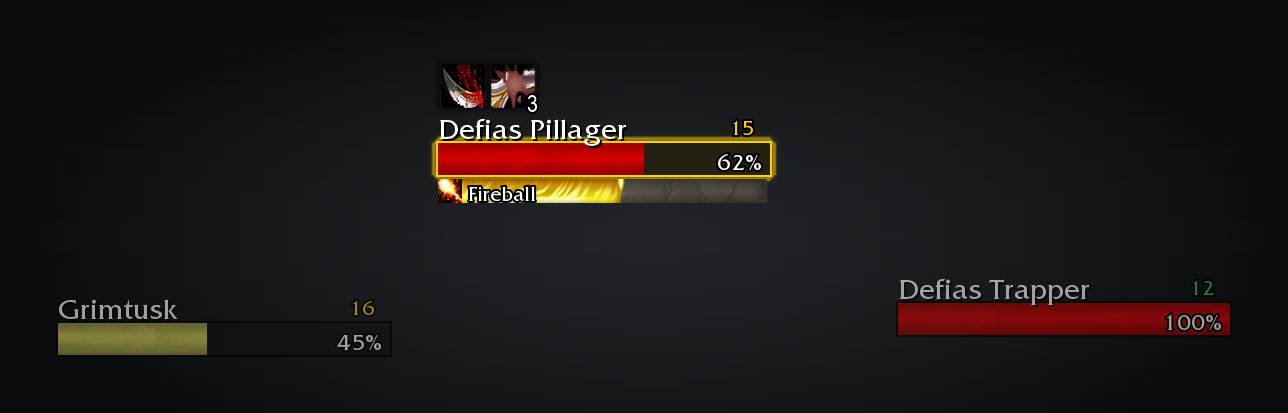
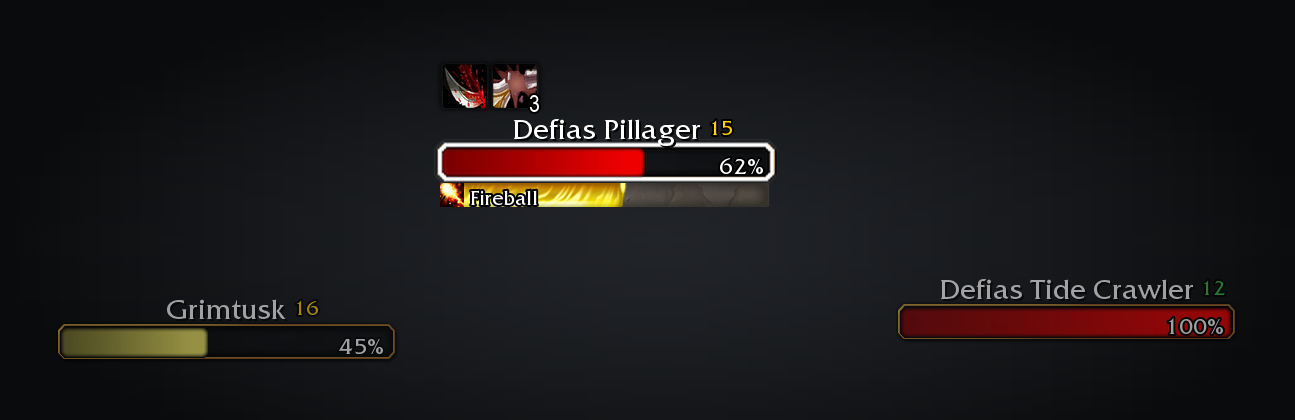
fix: full nameplate names in retail's bar frame; never test a secret value (#41)
* fix(nameplates): full names above retail's own bar frame

Names were pinned between the bar's left end and the level box, so any
longer name ("Encrusted Tide Crawler") was cut short. The name now has a
single anchor, centred above the bar, and the level follows it, so it
is never truncated.

The flat trough and 1-unit black edge gave way to retail's own art, laid
out as its default style does: the cooldown-manager fill inside its
bronze-rimmed trough, with the Nameplates-Selected outline round the
target (white) or focus (gold). The Classic style switches that outline
off, so the hook shows it from UnitIsUnit instead of Blizzard's
IsTarget, keeping to engine calls only.

Claude-Session: https://claude.ai/code/session_016cB4EsmY8J7vcvboaHNcoS

* fix: never test a secret value in nameplates, camps, fishing or tooltips

A read-only audit against the client's secret-value markers found these
paths that could still raise a Lua error:

- Nameplates: UnitIsUnit answers with a secret boolean on restricted maps
  (dungeons, raids), and Dim/Border tested it. One Highlight now does
  both, and when the answer is secret hands it to the engine's
  SetAlphaFromBoolean, so the target keeps its outline and the others
  still fade there; only the focus goes unmarked.
- Camp aura tooltip: the aura id (always-secret spells) and the
  UnitIsUnit check are tested only once readable.
- Campfire and fishing casts: registered for the player alone with
[…]

Changed region(s): [[0.3106, 0.1453, 0.6211, 0.4939], [0.6832, 0.6683, 0.9627, 0.8136], [0.0311, 0.7264, 0.3106, 0.8717]]

diff --git a/tools/screenshots.py b/tools/screenshots.py
@@ -433,8 +433,7 @@ def editmode(ui):
 
 # Nameplates.lua at the Medium size: a 190-wide plate less Blizzard's 12 inset each side, health 16 over a 2 gap
 # and a 12 cast bar, name and level 2 above the bar, a 5-unit glow on the target, the others at 0.6 alpha.
-PLATE_W, PLATE_HEALTH, PLATE_CAST, PLATE_GAP, PLATE_GLOW, PLATE_DIMMED = 166, 16, 12, 2, 5, 0.6
-TROUGH = (0.07, 0.07, 0.08, 0.92)
+PLATE_W, PLATE_HEALTH, PLATE_CAST, PLATE_GAP, PLATE_DIMMED = 166, 16, 12, 2, 0.6
 HOSTILE, ROGUE = (1.0, 0.0, 0.0), (1.0, 0.96, 0.41)
 FAIR, EASY = (1.0, 0.82, 0.0), (0.25, 0.75, 0.25)
 FIREBALL, REND, SUNDER = 135812, 132155, 132363
@@ -451,7 +450,7 @@ PLATES = [
         ("Fireball", FIREBALL, 0.55),
         [(REND, None, 0.4), (SUNDER, 3, 0.8)],
     ),
-    ("Defias Trapper", 12, EASY, HOSTILE, 1.0, False, None, []),
+    ("Defias Tide Crawler", 12, EASY, HOSTILE, 1.0, False, None, []),
     ("Grimtusk", 16, FAIR, ROGUE, 0.45, False, None, []),
 ]
 PLATE_POSITIONS = [(40, 60), (270, 140), (-150, 150)]
@@ -471,19 +470,12 @@ def nameplate(ui, name, level, level_colour, colour, health, target, cast, debuf
     x, w = 37, PLATE_W
     cast_y = 110 - PLATE_CAST
     y = cast_y - PLATE_GAP - PLATE_HEALTH
+    # Retail's bar art as its default style lays it out: the trough 2 left, 3 above, 6 right and 6 below the bar,
+    # and the target outline 1 outside the trough's top left and 3 inside its bottom right.
+    c.draw(ui.atlas("UI-HUD-CoolDownManager-Bar-BG"), x - 2, y - 3, w + 8, PLATE_HEALTH + 9)
+    c.draw(ui.atlas("UI-HUD-CoolDownManager-Bar"), x, y, w * health, PLATE_HEALTH, color=(*colour, 1))
     if target:
-        glow = PLATE_GLOW
-        c.draw(
-            ui.atlas("UI-HUD-Nameplates-Selected"),
-            x - glow,
-            y - glow,
-            w + glow * 2,
-            PLATE_HEALTH + glow * 2,
-            color=(*NORMAL, 0.55),
-        )
-    c.fill(x - 1, y - 1, w + 2, PLATE_HEALTH + 2, (*NORMAL, 1) if target else (0, 0, 0, 1))
-    c.fill(x, y, w, PLATE_HEALTH, TROUGH)
-    c.draw(ui.atlas("widgetstatusbar-fill-white"), x, y, w * health, PLATE_HEALTH, color=(*colour, 1))
+        c.draw(ui.atlas("UI-HUD-Nameplates-Selected"), x - 3, y - 4, w + 6, PLATE_HEALTH + 7)
     c.text(
         x,
         y,
@@ -494,10 +486,14 @@ def nameplate(ui, name, level, level_colour, colour, health, target, cast, debuf
         width=w - 4,
     )
 
-    # Blizzard's 28-wide level frame without its box, and the name up to it.
-    name_y = y - 2 - 14
+    # The full name centred above the bar, and Blizzard's 28-wide level frame, without its box, 4 into its end.
+    name_y = y - 4 - 14
+    font = Font(FRIZQT, 14, (1, 1, 1), (1, -1))
+    name_w = c.text_width(name, font)
+    name_x = x + (w - name_w) / 2
+    c.text(name_x, name_y, name, font)
     c.text(
-        x + w - 28,
+        name_x + name_w - 4,
         name_y,
         str(level),
         Font(FRIZQT, 10, level_colour, None, True),
@@ -505,7 +501,6 @@ def nameplate(ui, name, level, level_colour, colour, health, target, cast, debuf
         justify="CENTER",
         width=28,
     )
-    c.text(x, name_y, name, Font(FRIZQT, 14, (1, 1, 1), (1, -1)), width=w - 32)
 
     # Blizzard's own debuff tiles, untouched: 25 square, cooldown-manager mask and frame, stacks bottom right.
     for i, (fdid, count, remaining) in enumerate(debuffs):

diff --git a/README.md b/README.md
@@ -43,7 +43,7 @@ When another addon already does one of these jobs, that feature is greyed out an
 </p>
 
 <p align="center">
-<img src="https://raw.githubusercontent.com/cjber/tweaks-forever/main/docs/screenshots/nameplates.png" width="644" alt="Three enemy nameplates: the targeted Defias Pillager outlined in gold, its name above the bar's left end, level 15 in yellow above the right and 62% inside the bar, two debuffs above and a Fireball cast in a slim bar below with the spell's icon inside; the other two faded back">
+<img src="https://raw.githubusercontent.com/cjber/tweaks-forever/main/docs/screenshots/nameplates.png" width="644" alt="Three enemy nameplates: the targeted Defias Pillager outlined in white in retail's bronze-rimmed bar, its name centred above with level 15 in yellow after it and 62% inside the bar, two debuffs above and a Fireball cast in a slim bar below with the spell's icon inside; the other two faded back">
 </p>
 
 ## Features
@@ -84,7 +84,7 @@ When another addon already does one of these jobs, that feature is greyed out an
 - Explain campsite benefits. Hovering a camp feature (a Camp Tent, Mana Well, Anvil and the rest) shows exactly what sitting nearby gives you, such as "Stamina increased by 56 for 1 Hr", and whether you have it now, with the time left. Hovering a campfire lists every benefit a camp can give: the ones you have in green with their time left, the rest in grey. Your Campfire Nearby buff adds the benefits you have and which way the campfire is, once you have lit it or sat by it; your Camp Benefits buff adds the ones you haven't gained yet.
 - Show future spells in the spellbook. Each tab ends with the spells you haven't learned yet under a Future Spells heading, greyed out as the retail spellbook shows them: the ones your trainer can teach you now glow and say "See your trainer", the rest name their level, and the tooltip gives the cost. Only each spell's next rank shows. The server leaves unlearned spells out of the spellbook, so the list comes from your class trainer, remembered per character each time you visit.
 - Modern tooltips: a thin grey border with rounded corners in place of the beige one, over a neutral charcoal that keeps the text crisp over any scenery. Tooltip style switches to the retail game's navy, or keeps the game's own border. A player's name is in their class colour, with the guild in brackets, race and class on one line and the faction in its colour. A unit's health bar sits inside its tooltip in class or reaction colour, with health as numbers for players and a percentage for others, and a comparison tooltip's Equipped label moves inside it in grey. On by default.
-- Larger, clearer nameplates. A taller health bar in a crisp black edge, with the name above its left end and the level, coloured by difficulty, above its right. Your target is outlined in gold with a soft glow, and the other plates fade back while you have one. Casts show in a slim bar with the spell's icon and name inside, grey with a shield when they can't be interrupted. Health numbers inside the bar follow the game's own Nameplates options. Friendly plates in dungeons are the game's own and can't be restyled. On by default; turning it off takes effect after a reload.
+- Larger, clearer nameplates. A taller health bar in the retail game's own frame, with the full name centred above it and the level, coloured by difficulty, after the name. Your target is outlined in white and your focus in gold, and the other plates fade back while you have one. Casts show in a slim bar with the spell's icon and name inside, grey with a shield when they can't be interrupted. Health numbers inside the bar follow the game's own Nameplates options. Friendly plates in dungeons are the game's own and can't be restyled. On by default; turning it off takes effect after a reload.
 
 **Fishing**
 - Double right-click the world with a fishing pole equipped to cast Fishing. Not in combat or while mounted.

diff --git a/CHANGELOG.md b/CHANGELOG.md
@@ -8,7 +8,7 @@ Added/Fixed lists. Each version's entry is also its release notes on GitHub, Cur
 
 ## [Unreleased]
 
-- **Larger, clearer nameplates.** Enemy and friendly nameplates get a taller health bar inside a crisp black edge, with the name above its left end and the level above its right, coloured by difficulty with a skull for ??. Your target is outlined in gold with a soft glow, and the other plates fade back while you have one. Casts show in a slim bar with the spell's icon and name inside it, grey with a shield when they can't be interrupted. Health as a percentage or number sits inside the bar when the game's Nameplates options show it. Friendly plates inside dungeons belong to the game and keep its look. On by default; turn it off under Interface, which takes effect after a reload.
+- **Larger, clearer nameplates.** Enemy and friendly nameplates get a taller health bar in the retail game's own frame, with the full name centred above it and the level after the name, coloured by difficulty with a skull for ??. Your target is outlined in white and your focus in gold, and the other plates fade back while you have one. Casts show in a slim bar with the spell's icon and name inside it, grey with a shield when they can't be interrupted. Health as a percentage or number sits inside the bar when the game's Nameplates options show it. Friendly plates inside dungeons belong to the game and keep its look. On by default; turn it off under Interface, which takes effect after a reload.
 - **Dungeon and raid entrances on the world map.** Every dungeon and raid entrance is marked on its zone map and on the continent with retail's icons, and pointing at one names it. Blackrock Mountain and the Gates of Ahn'Qiraj are one pin each that lists everything inside. Blizzard's map asks the dungeon journal for entrances, and Forever has no journal, so the map was empty. The map's own Show instance entrances filter hides them, and an entrance steps aside where a flight master, a Legacy Here objective or a Shortest Path Forever portal or dock already sits on it. Forever's new instances have no entrance in the game's data yet, so Dalaran, the Ruins of Lordaeron, the Hall of Thanes and the Wetlands excavation have no pin. Turn it off under Maps.
 - **Camps say what they give.** Hovering your Campfire Nearby buff lists the camp benefits you have, in green with their time left, and which way the campfire is, such as "Campfire: about 35 yd ahead to your left", once you have lit it or sat by it. Hovering a campfire lists every benefit a camp can give, a camp feature's tooltip gives its effect in numbers ("Sitting nearby: Stamina increased by 56 for 1 Hr") instead of just the aura's name, and your Camp Benefits buff adds the benefits you haven't gained yet. Turn it off under Interface.
 - **Zone level ranges on the world map.** Pointing at a zone on the world map adds its level range after the name, such as Darkshore (10-20), coloured like quest levels: grey and green are below you, yellow is your level, orange and red are above. Forever's map data carries no ranges, so the original zones show the original game's, and Zephras Isle and Riverglades show the span of their subzones' exploration levels. Cities and battlegrounds show none. Turn it off under Maps.

diff --git a/docs/curseforge.md b/docs/curseforge.md
@@ -18,7 +18,7 @@ Tweaks Forever replaces a handful of single-purpose addons with options in WoW: 
 
 ![The Campfire Nearby buff tooltip: the game's description, then Campfire: about 35 yd ahead to your left, and the three benefits you have in green with their time left, such as First Aid Kit (52 Min): Stamina increased by 56](https://raw.githubusercontent.com/cjber/tweaks-forever/main/docs/screenshots/camp.png)
 
-![Three enemy nameplates: the targeted Defias Pillager outlined in gold, its name above the bar's left end, level 15 in yellow above the right and 62% inside the bar, two debuffs above and a Fireball cast in a slim bar below with the spell's icon inside; the other two faded back](https://raw.githubusercontent.com/cjber/tweaks-forever/main/docs/screenshots/nameplates.png)
+![Three enemy nameplates: the targeted Defias Pillager outlined in white in retail's bronze-rimmed bar, its name centred above with level 15 in yellow after it and 62% inside the bar, two debuffs above and a Fireball cast in a slim bar below with the spell's icon inside; the other two faded back](https://raw.githubusercontent.com/cjber/tweaks-forever/main/docs/screenshots/nameplates.png)
 
 ## Features
 
